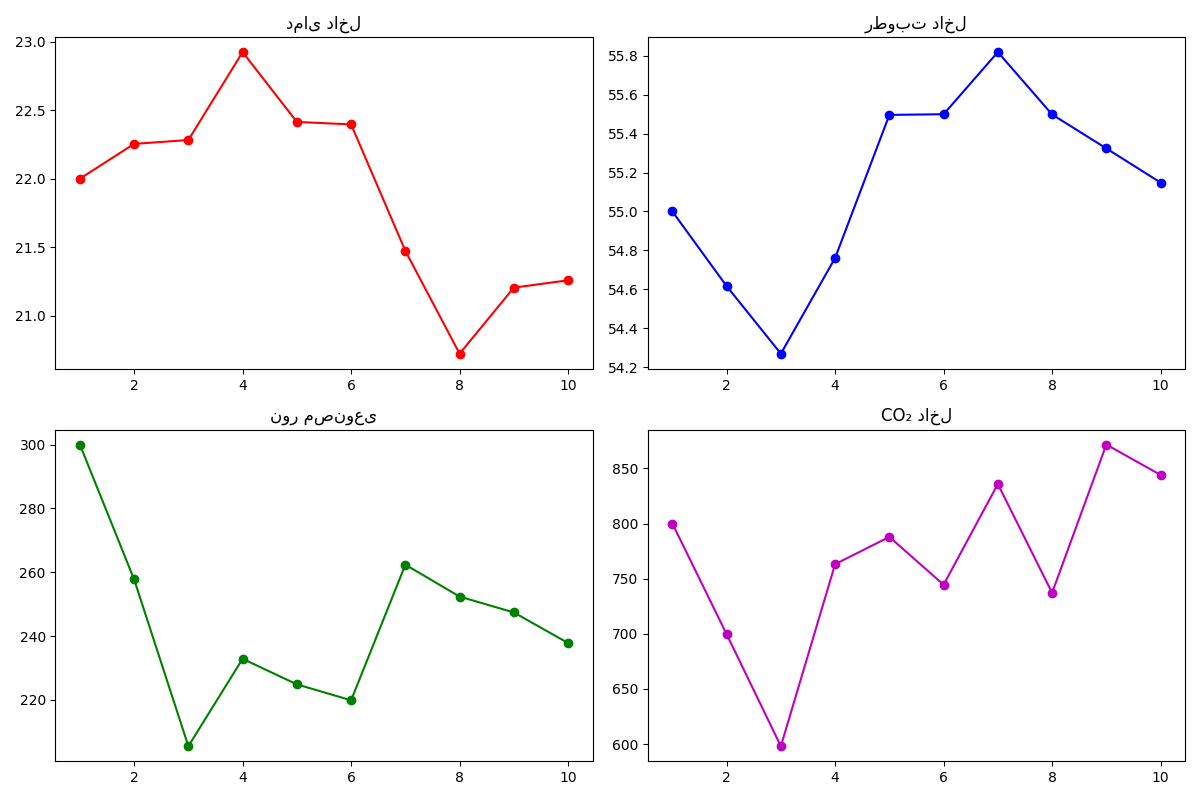
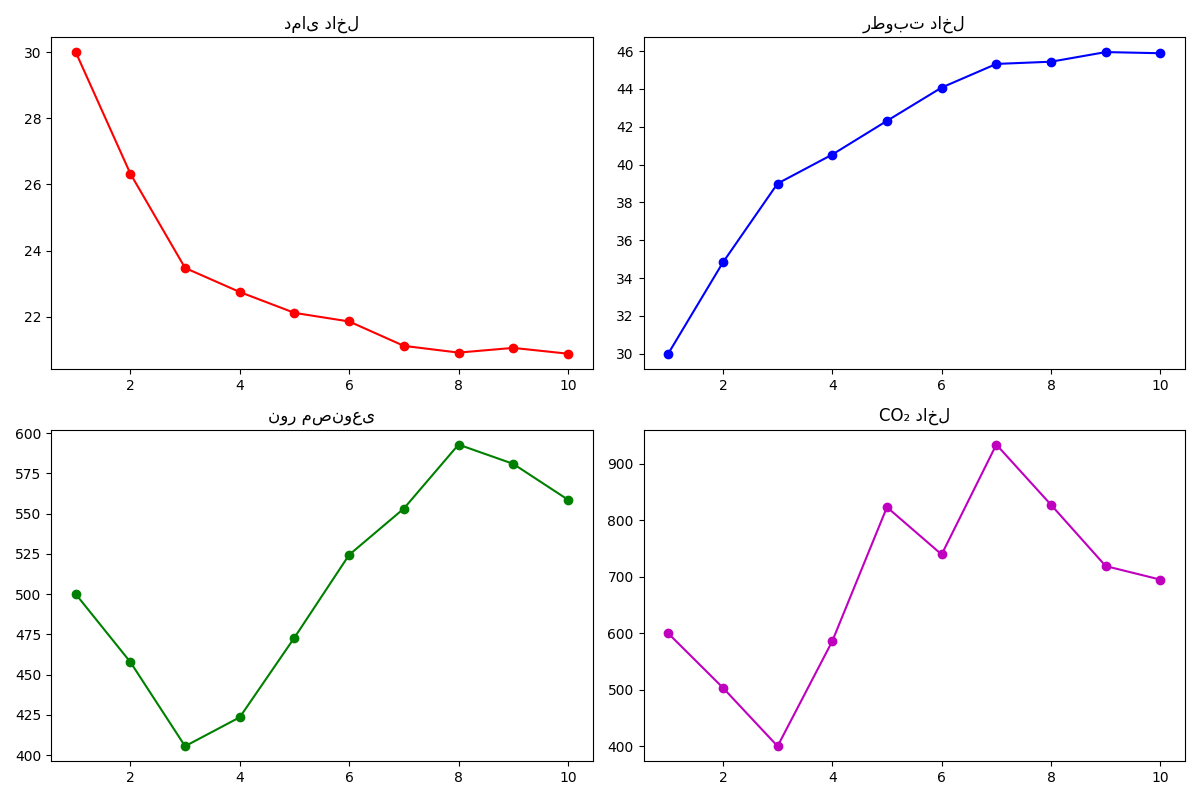
add membership_plots and rules table

diff --git a/step1/plot_membership_functions.py b/step1/plot_membership_functions.py
@@ -1,0 +1,171 @@
+import numpy as np
+import matplotlib.pyplot as plt
+import os
+from fuzzy_controller import (
+    fuzzify_temp, fuzzify_hum, fuzzify_light, fuzzify_co2,
+    fuzzify_density, fuzzify_env,
+    temp_output, hum_output, light_output, co2_output)
+
+
+def plot_mf(x_range, func_dict, title, xlabel, ylabel="Degree of membership", save_path=None):
+    x = np.linspace(x_range[0], x_range[1], 500)
+    plt.figure(figsize=(8, 4))
+    for label, func in func_dict.items():
+        y = [func(xi) for xi in x]
+        plt.plot(x, y, label=label)
+    plt.xlabel(xlabel)
+    plt.ylabel(ylabel)
+    plt.title(title)
+    plt.legend()
+    plt.grid(True, alpha=0.3)
+    if save_path:
+        plt.savefig(save_path, dpi=150, bbox_inches='tight')
+        plt.close()
+    else:
+        plt.show()
+
+
+def main():
+    output_dir = "membership_plots"
+    os.makedirs(output_dir, exist_ok=True)
+
+    # Tin
+    plot_mf(
+        x_range=(10, 35),
+        func_dict={
+            "Cold": lambda x: fuzzify_temp(x)["Cold"],
+            "Normal": lambda x: fuzzify_temp(x)["Normal"],
+            "Hot": lambda x: fuzzify_temp(x)["Hot"]
+        },
+        title="Membership Functions - Temperature Inside (T_in)",
+        xlabel="Temperature (°C)",
+        save_path=f"{output_dir}/temp_input_mf.png"
+    )
+
+    # Hin
+    plot_mf(
+        x_range=(10, 90),
+        func_dict={
+            "Dry": lambda x: fuzzify_hum(x)["Dry"],
+            "Normal": lambda x: fuzzify_hum(x)["Normal"],
+            "Wet": lambda x: fuzzify_hum(x)["Wet"]
+        },
+        title="Membership Functions - Humidity Inside (H_in)",
+        xlabel="Humidity (%)",
+        save_path=f"{output_dir}/hum_input_mf.png"
+    )
+
+    # light
+    plot_mf(
+        x_range=(0, 1900),
+        func_dict={
+            "Low": lambda x: fuzzify_light(x)["Low"],
+            "Normal": lambda x: fuzzify_light(x)["Normal"],
+            "High": lambda x: fuzzify_light(x)["High"]
+        },
+        title="Membership Functions - Effective Light (L_eff)",
+        xlabel="Light intensity (Lux)",
+        save_path=f"{output_dir}/light_input_mf.png"
+    )
+
+    # co2
+    plot_mf(
+        x_range=(300, 1700),
+        func_dict={
+            "Low": lambda x: fuzzify_co2(x)["Low"],
+            "Normal": lambda x: fuzzify_co2(x)["Normal"],
+            "High": lambda x: fuzzify_co2(x)["High"]
+        },
+        title="Membership Functions - CO2 Concentration",
+        xlabel="CO2 (ppm)",
+        save_path=f"{output_dir}/co2_input_mf.png"
+    )
+
+    # N
+    plot_mf(
+        x_range=(1, 30),
+        func_dict={
+            "Low": lambda x: fuzzify_density(x)["Low"],
+            "Medium": lambda x: fuzzify_density(x)["Medium"],
+            "High": lambda x: fuzzify_density(x)["High"]
+        },
+        title="Membership Functions - Plant Density (N)",
+        xlabel="Density (plants/area)",
+        save_path=f"{output_dir}/density_input_mf.png"
+    )
+
+    # فشار محیطی
+    plot_mf(
+        x_range=(0, 60),
+        func_dict={
+            "Low": lambda x: fuzzify_env(x)["Low"],
+            "Medium": lambda x: fuzzify_env(x)["Medium"],
+            "High": lambda x: fuzzify_env(x)["High"]
+        },
+        title="Membership Functions - Environmental Risk",
+        xlabel="EnvRisk",
+        save_path=f"{output_dir}/env_input_mf.png"
+    )
+
+    # TempControl
+    plot_mf(
+        x_range=(-100, 100),
+        func_dict={
+            "StrongCool": lambda z: temp_output("StrongCool", z),
+            "Cool": lambda z: temp_output("Cool", z),
+            "NoChange": lambda z: temp_output("NoChange", z),
+            "Heat": lambda z: temp_output("Heat", z),
+            "StrongHeat": lambda z: temp_output("StrongHeat", z)
+        },
+        title="Membership Functions - Temperature Control Output",
+        xlabel="TempControl",
+        save_path=f"{output_dir}/temp_output_mf.png"
+    )
+
+    # HumControl
+    plot_mf(
+        x_range=(-100, 100),
+        func_dict={
+            "StrongDry": lambda z: hum_output("StrongDry", z),
+            "Dry": lambda z: hum_output("Dry", z),
+            "NoChange": lambda z: hum_output("NoChange", z),
+            "Hum": lambda z: hum_output("Hum", z),
+            "StrongHum": lambda z: hum_output("StrongHum", z)
+        },
+        title="Membership Functions - Humidity Control Output",
+        xlabel="HumControl",
+        save_path=f"{output_dir}/hum_output_mf.png"
+    )
+
+    # LightControl
+    plot_mf(
+        x_range=(0, 100),
+        func_dict={
+            "No": lambda z: light_output("No", z),
+            "Low": lambda z: light_output("Low", z),
+            "Mid": lambda z: light_output("Mid", z),
+            "High": lambda z: light_output("High", z)
+        },
+        title="Membership Functions - Light Control Output",
+        xlabel="LightControl",
+        save_path=f"{output_dir}/light_output_mf.png"
+    )
+
+    # CO2Control
+    plot_mf(
+        x_range=(-100, 100),
+        func_dict={
+            "DecHigh": lambda z: co2_output("DecHigh", z),
+            "DecLow": lambda z: co2_output("DecLow", z),
+            "Zero": lambda z: co2_output("Zero", z),
+            "IncLow": lambda z: co2_output("IncLow", z),
+            "IncHigh": lambda z: co2_output("IncHigh", z)
+        },
+        title="Membership Functions - CO2 Control Output",
+        xlabel="CO2Control",
+        save_path=f"{output_dir}/co2_output_mf.png"
+    )
+
+
+if __name__ == "__main__":
+    main()

diff --git a/step1/rules_table.py b/step1/rules_table.py
@@ -1,0 +1,75 @@
+import pandas as pd
+
+rules = []
+
+temp_rules_list = [
+    {"Antecedent": "T_in is Cold AND EnvRisk is High", "Consequent": "TempControl is StrongHeat"},
+    {"Antecedent": "T_in is Cold AND EnvRisk is Medium", "Consequent": "TempControl is StrongHeat"},
+    {"Antecedent": "T_in is Cold AND EnvRisk is Low", "Consequent": "TempControl is Heat"},
+    {"Antecedent": "T_in is Normal", "Consequent": "TempControl is NoChange"},
+    {"Antecedent": "T_in is Hot AND Light_eff is High", "Consequent": "TempControl is StrongCool"},
+    {"Antecedent": "T_in is Hot AND EnvRisk is High", "Consequent": "TempControl is StrongCool"},
+    {"Antecedent": "T_in is Hot AND EnvRisk is Low", "Consequent": "TempControl is Cool"},
+    {"Antecedent": "T_in is Hot AND weather is sunny", "Consequent": "TempControl is StrongCool"},
+    {"Antecedent": "T_in is Cold AND weather is cold", "Consequent": "TempControl is StrongHeat"},
+]
+for r in temp_rules_list:
+    rules.append({"Category": "Temperature", **r})
+
+hum_rules_list = [
+    {"Antecedent": "H_in is Dry AND T_in is Hot", "Consequent": "HumControl is StrongHum"},
+    {"Antecedent": "H_in is Dry AND T_in is Normal", "Consequent": "HumControl is Hum"},
+    {"Antecedent": "H_in is Dry AND weather is dry", "Consequent": "HumControl is StrongHum"},
+    {"Antecedent": "H_in is Normal", "Consequent": "HumControl is NoChange"},
+    {"Antecedent": "H_in is Wet AND H_out is Wet", "Consequent": "HumControl is Dry"},
+    {"Antecedent": "H_in is Wet AND weather is rainy", "Consequent": "HumControl is StrongDry"},
+    {"Antecedent": "H_in is Wet AND weather is humid", "Consequent": "HumControl is StrongDry"},
+    {"Antecedent": "H_in is Wet AND T_in is Cold", "Consequent": "HumControl is Dry"},
+]
+for r in hum_rules_list:
+    rules.append({"Category": "Humidity", **r})
+
+light_rules_list = [
+    {"Antecedent": "Light_eff is Low AND N is High", "Consequent": "LightControl is High"},
+    {"Antecedent": "Light_eff is Low AND N is Medium", "Consequent": "LightControl is Mid"},
+    {"Antecedent": "Light_eff is Low AND N is Low", "Consequent": "LightControl is Low"},
+    {"Antecedent": "Light_eff is Normal", "Consequent": "LightControl is No"},
+    {"Antecedent": "Light_eff is High", "Consequent": "LightControl is No"},
+    {"Antecedent": "Light_eff is Low AND weather is night", "Consequent": "LightControl is High"},
+    {"Antecedent": "Light_eff is Normal AND weather is sunny", "Consequent": "LightControl is No"},
+    {"Antecedent": "Light_eff is Low AND weather is cloudy", "Consequent": "LightControl is Mid"},
+]
+for r in light_rules_list:
+    rules.append({"Category": "Light", **r})
+
+co2_rules_list = [
+    {"Antecedent": "CO2 is Low AND N is High", "Consequent": "CO2Control is IncHigh"},
+    {"Antecedent": "CO2 is Low AND N is Medium", "Consequent": "CO2Control is IncLow"},
+    {"Antecedent": "CO2 is Low AND Light_eff is Normal", "Consequent": "CO2Control is IncHigh"},
+    {"Antecedent": "CO2 is Normal", "Consequent": "CO2Control is Zero"},
+    {"Antecedent": "CO2 is High", "Consequent": "CO2Control is DecLow"},
+    {"Antecedent": "CO2 is High AND T_in is Hot", "Consequent": "CO2Control is DecHigh"},
+    {"Antecedent": "CO2 is High AND EnvRisk is High", "Consequent": "CO2Control is DecLow"},
+    {"Antecedent": "CO2 is Low AND Light_eff is Low", "Consequent": "CO2Control is IncLow"},
+    {"Antecedent": "CO2 is Low AND weather is night", "Consequent": "CO2Control is IncLow"},
+    {"Antecedent": "CO2 is Normal AND N is High", "Consequent": "CO2Control is IncLow"},
+]
+for r in co2_rules_list:
+    rules.append({"Category": "CO2", **r})
+
+energy_rules_list = [
+    {"Antecedent": "EnvRisk is High AND Light_eff is High", "Consequent": "LightControl is No", "Category": "Energy (Light)"},
+    {"Antecedent": "T_in is Hot AND Light_eff is High", "Consequent": "LightControl is No", "Category": "Energy (Light)"},
+    {"Antecedent": "T_in is Normal AND H_in is Wet", "Consequent": "HumControl is NoChange", "Category": "Energy (Humidity)"},
+    {"Antecedent": "EnvRisk is High AND T_in is Normal", "Consequent": "TempControl is NoChange", "Category": "Energy (Temperature)"},
+    {"Antecedent": "CO2 is Low AND N is High AND Light_eff is Normal", "Consequent": "CO2Control is IncHigh", "Category": "Energy (CO2)"},
+    {"Antecedent": "CO2 is Low AND N is High AND Light_eff is Low", "Consequent": "CO2Control is IncLow", "Category": "Energy (CO2)"},
+    {"Antecedent": "CO2 is High AND EnvRisk is High", "Consequent": "CO2Control is DecLow", "Category": "Energy (CO2)"},
+]
+for r in energy_rules_list:
+    rules.append(r)
+
+df_rules = pd.DataFrame(rules)
+df_rules.insert(0, "Rule#", range(1, len(df_rules)+1))
+
+print(df_rules.to_string(index=False))

diff --git a/step1/fuzzy_controller.py b/step1/fuzzy_controller.py
@@ -1,6 +1,5 @@
-from step1.mamdani_engine import defuzzify
 from step1.membership_function import trapmf, trimf
-
+import numpy as np
 
 # FUZZIFICATION-----------------------------------------------------------------
 def fuzzify_light(x):
@@ -191,6 +190,23 @@ def co2_rules(co2, density, temp, weather, light, env):
     rules.append((min(co2["Normal"], density["High"]), "IncLow"))
 
     return rules
+
+# defuzzify---------------------------------------------------------------------------------
+#روش مرکز جسم
+def defuzzify(rules, zmin, zmax, output_func, step=1):
+    # zmin , zmax :  بازهی عددی خروجی قطعی
+    num = 0 #صورت کسر
+    den = 0 #مخرج کسر
+
+    for z in np.arange(zmin, zmax + step, step):
+        mu = 0
+        for strength, label in rules:
+            mu = max(mu, min(strength, output_func(label, z)))
+        num += z * mu
+        den += mu
+
+    return num / den if den != 0 else 0
+
 # CONTROLLER---------------------------------------------------------------------------------
 def compute_envrisk(T_in, T_out, Wind, W):
     k_map = {

diff --git a/step1/plots.py b/step1/plots.py
@@ -31,12 +31,12 @@ class Plotter:
         plt.savefig(f"{output_dir}/hum_inside.png")
         plt.close()
 
-        # نمودار نور مصنوعی
+        # نمودار نور
         plt.figure()
         plt.plot(days, df_results["L"], 'g-o')
         plt.xlabel("روز")
         plt.ylabel("شدت نور (Lux)")
-        plt.title("تغییرات نور مصنوعی")
+        plt.title("تغییرات نور")
         plt.grid(True)
         plt.savefig(f"{output_dir}/light_inside.png")
         plt.close()
@@ -74,7 +74,7 @@ class Plotter:
         axes[0, 1].plot(days, df_results["H_in"], 'b-o')
         axes[0, 1].set_title("رطوبت داخل")
         axes[1, 0].plot(days, df_results["L"], 'g-o')
-        axes[1, 0].set_title("نور مصنوعی")
+        axes[1, 0].set_title("نور")
         axes[1, 1].plot(days, df_results["CO2"], 'm-o')
         axes[1, 1].set_title("CO₂ داخل")
         plt.tight_layout()

diff --git a/step1/greenhouse_simulator.py b/step1/greenhouse_simulator.py
@@ -23,10 +23,10 @@ class GreenhouseSimulator:
     def __init__(self, initial_state=None):
         if initial_state is None:
             self.state = {
-                "T_in": 22.0,
-                "H_in": 55.0,
-                "L": 300.0,
-                "CO2": 800.0
+                "T_in": 30.0,
+                "H_in": 30.0,
+                "L": 500.0,
+                "CO2": 600.0
             }
         else:
             self.state = initial_state.copy()
